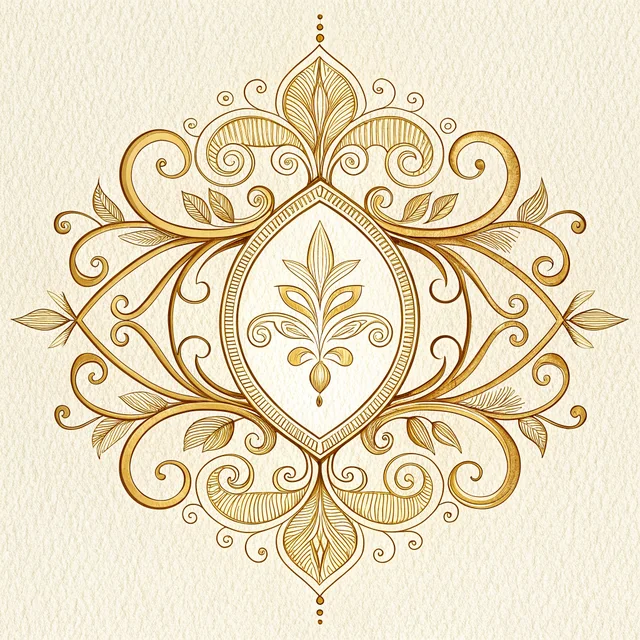
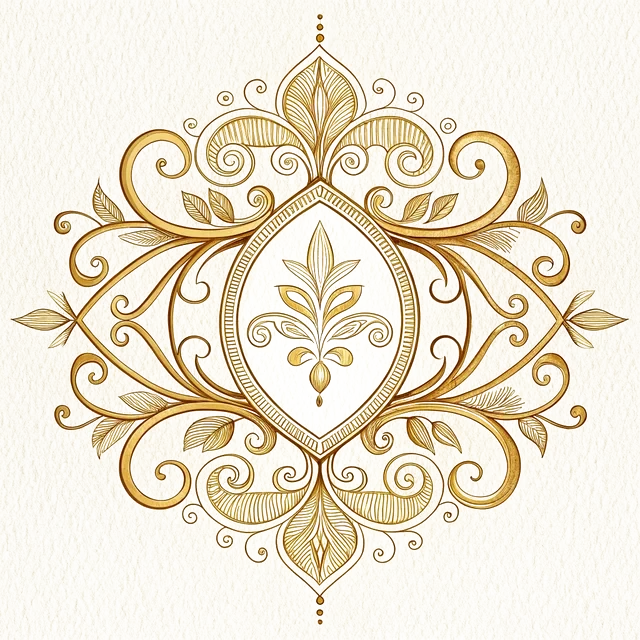
chore(proto): monogram lab — 11 frames + 5 fonts + per-letter positioning
Static review tool (noindex) at /proto/monogram-lab-2026-06-01.html so the
owner can pick monogram frames/fonts and dial in each glyph's placement on a phone.

- bare monogram (no background/fill) + a "None" frame option
- 11 gold-filigree frame designs (4 existing + 6 new Recraft, all keyed transparent)
- 5 premium fonts (Cormorant, Playfair, Cinzel, Great Vibes, Marcellus)
- per-glyph X/Y/Size sliders (left letter, &, right letter) + spacing + ink/backdrop preview + live value readout
- refreshes the shared /proto/assets/mono set with the full 11-frame library

Design tool, V1.x post-pilot. The chosen frames/fonts + per-frame letter offsets
get baked into the onboarding Name screen once selected.

diff --git a/apps/web/public/proto/monogram-lab-2026-06-01.html b/apps/web/public/proto/monogram-lab-2026-06-01.html
@@ -1,0 +1,291 @@
+<!doctype html>
+<html lang="en">
+<head>
+<meta name="robots" content="noindex,nofollow">
+<meta charset="utf-8">
+<meta name="viewport" content="width=device-width, initial-scale=1, maximum-scale=1">
+<title>Setnayan · Monogram Lab</title>
+<link rel="preconnect" href="https://fonts.googleapis.com">
+<link rel="preconnect" href="https://fonts.gstatic.com" crossorigin>
+<link href="https://fonts.googleapis.com/css2?family=Cormorant+Garamond:ital,wght@0,500;0,600;1,500;1,600&family=Playfair+Display:ital,wght@0,600;1,600&family=Cinzel:wght@500;600&family=Great+Vibes&family=Marcellus&family=Manrope:wght@400;500;600;700&family=DM+Mono:wght@400;500&display=swap" rel="stylesheet">
+<style>
+  :root{
+    --paper:#FBFBFA; --ink:#1E2229; --ink-soft:#4F535B; --line:#E7E1D6; --line-2:#D9D2C4;
+    --gold:#C5A059; --gold-deep:#8C6932; --mulberry:#5C2542; --surface:#FFFFFF;
+    --serif:'Cormorant Garamond',serif; --sans:'Manrope',sans-serif; --mono:'DM Mono',monospace;
+  }
+  *{box-sizing:border-box;}
+  body{margin:0;background:#ECE7DD;font-family:var(--sans);color:var(--ink);-webkit-font-smoothing:antialiased;}
+  .wrap{max-width:460px;margin:0 auto;min-height:100vh;background:var(--paper);box-shadow:0 0 40px rgba(0,0,0,.06);}
+  header{display:flex;align-items:center;gap:9px;padding:14px 20px 10px;border-bottom:1px solid var(--line);position:sticky;top:0;background:var(--paper);z-index:5;}
+  header svg{width:24px;height:24px;display:block;}
+  header .wm{font-family:var(--mono);font-size:12px;letter-spacing:.32em;color:var(--ink);font-weight:500;}
+  header .tag{margin-left:auto;font-family:var(--mono);font-size:10px;letter-spacing:.22em;color:var(--gold-deep);text-transform:uppercase;}
+
+  /* ===== live stage ===== */
+  .stage{padding:24px 20px 18px;display:flex;align-items:center;justify-content:center;min-height:300px;transition:background .25s;}
+  .stage[data-bg="paper"]{background:var(--paper);}
+  .stage[data-bg="white"]{background:#fff;}
+  .stage[data-bg="dark"]{background:#1E2229;}
+  .stage[data-bg="gold"]{background:linear-gradient(135deg,#efe6d3,#ddccab);}
+  .mono{position:relative;width:clamp(220px,72vw,300px);aspect-ratio:1;display:flex;align-items:center;justify-content:center;
+    background-repeat:no-repeat;background-position:center;background-size:contain;filter:drop-shadow(0 3px 8px rgba(140,105,50,.18));}
+  .mono[data-frame="none"]{background-image:none;filter:none;}
+  .mono[data-frame="wreath"]{background-image:url(assets/mono/wreath.webp);}
+  .mono[data-frame="crest"]{background-image:url(assets/mono/crest.webp);}
+  .mono[data-frame="square"]{background-image:url(assets/mono/square.webp);}
+  .mono[data-frame="oval"]{background-image:url(assets/mono/oval.webp);}
+  .mono[data-frame="flourish"]{background-image:url(assets/mono/flourish.webp);}
+  .mono[data-frame="art_deco"]{background-image:url(assets/mono/art_deco.webp);}
+  .mono[data-frame="laurel"]{background-image:url(assets/mono/laurel.webp);}
+  .mono[data-frame="baroque"]{background-image:url(assets/mono/baroque.webp);}
+  .mono[data-frame="ribbon"]{background-image:url(assets/mono/ribbon.webp);}
+  .mono[data-frame="botanical"]{background-image:url(assets/mono/botanical.webp);}
+  .mono[data-frame="deco_diamond"]{background-image:url(assets/mono/deco_diamond.webp);}
+
+  .letters{position:relative;display:flex;align-items:center;justify-content:center;line-height:1;white-space:nowrap;}
+  .g{display:inline-block;transition:transform .08s linear;will-change:transform;}
+  /* glyph color */
+  .mono[data-ink="mulberry"] .g{color:var(--mulberry);}
+  .mono[data-ink="gold"] .g{color:var(--gold-deep);}
+  .mono[data-ink="ink"] .g{color:var(--ink);}
+  .mono[data-ink="white"] .g{color:#fff;}
+  /* fonts */
+  .mono[data-font="cormorant"] .g{font-family:var(--serif);font-style:italic;font-weight:600;}
+  .mono[data-font="playfair"] .g{font-family:'Playfair Display',serif;font-style:italic;font-weight:600;}
+  .mono[data-font="cinzel"] .g{font-family:'Cinzel',serif;font-weight:600;text-transform:uppercase;}
+  .mono[data-font="script"] .g{font-family:'Great Vibes',cursive;font-weight:400;}
+  .mono[data-font="marcellus"] .g{font-family:'Marcellus',serif;font-weight:400;}
+
+  /* ===== control panel ===== */
+  .panel{padding:4px 18px 40px;}
+  .sec{margin-top:18px;}
+  .sec-h{font-family:var(--mono);font-size:10.5px;letter-spacing:.2em;text-transform:uppercase;color:var(--gold-deep);margin:0 0 9px;}
+  .field{display:flex;flex-direction:column;gap:5px;margin-bottom:10px;}
+  .field input[type=text]{border:1px solid var(--line-2);background:var(--surface);border-radius:10px;padding:11px 13px;font-family:var(--sans);font-size:15px;color:var(--ink);}
+  .field input[type=text]:focus{outline:none;border-color:var(--gold);}
+  .hint{font-size:11.5px;color:var(--ink-soft);}
+
+  /* frame gallery */
+  .frames{display:grid;grid-template-columns:repeat(4,1fr);gap:8px;}
+  .fr{position:relative;border:2px solid var(--line);border-radius:12px;background:var(--surface);aspect-ratio:1;cursor:pointer;display:flex;align-items:center;justify-content:center;overflow:hidden;-webkit-tap-highlight-color:transparent;}
+  .fr img{width:84%;height:84%;object-fit:contain;}
+  .fr .none-x{font-family:var(--serif);font-style:italic;font-size:22px;color:var(--ink-soft);}
+  .fr .lbl{position:absolute;bottom:0;left:0;right:0;font-family:var(--mono);font-size:8px;letter-spacing:.04em;text-align:center;padding:2px 0;background:rgba(251,251,250,.92);color:var(--ink-soft);text-transform:uppercase;}
+  .fr.sel{border-color:var(--mulberry);box-shadow:0 0 0 2px rgba(92,37,66,.15);}
+
+  /* font + chip rows */
+  .chips{display:flex;flex-wrap:wrap;gap:8px;}
+  .chip{border:1px solid var(--line-2);background:var(--surface);border-radius:999px;padding:9px 15px;font-size:13px;font-weight:600;color:var(--ink-soft);cursor:pointer;-webkit-tap-highlight-color:transparent;}
+  .chip.sel{background:var(--ink);color:var(--paper);border-color:var(--ink);}
+  .chip.fp{font-size:17px;padding:7px 17px;}
+  .chip.fp[data-f="cormorant"]{font-family:var(--serif);font-style:italic;}
+  .chip.fp[data-f="playfair"]{font-family:'Playfair Display',serif;font-style:italic;}
+  .chip.fp[data-f="cinzel"]{font-family:'Cinzel',serif;}
+  .chip.fp[data-f="script"]{font-family:'Great Vibes',cursive;font-size:22px;}
+  .chip.fp[data-f="marcellus"]{font-family:'Marcellus',serif;}
+
+  /* sliders */
+  .glyphrow{margin-bottom:14px;}
+  .glyphrow .gname{font-family:var(--mono);font-size:11px;letter-spacing:.06em;color:var(--ink);font-weight:500;margin-bottom:6px;display:flex;align-items:center;gap:8px;}
+  .glyphrow .gname b{font-family:var(--serif);font-style:italic;font-size:18px;color:var(--mulberry);font-weight:600;min-width:18px;}
+  .sl{display:grid;grid-template-columns:24px 1fr 44px;align-items:center;gap:8px;margin-bottom:5px;}
+  .sl label{font-family:var(--mono);font-size:10px;color:var(--ink-soft);text-transform:uppercase;}
+  .sl input[type=range]{width:100%;accent-color:var(--mulberry);}
+  .sl .val{font-family:var(--mono);font-size:11px;color:var(--ink);text-align:right;}
+
+  .row2{display:flex;gap:8px;flex-wrap:wrap;align-items:center;}
+  .minibtn{border:1px solid var(--line-2);background:var(--surface);border-radius:8px;padding:7px 12px;font-size:12px;font-weight:600;color:var(--ink-soft);cursor:pointer;-webkit-tap-highlight-color:transparent;}
+  .minibtn:active{transform:scale(.96);}
+
+  .readout{margin-top:14px;border:1px dashed var(--line-2);border-radius:10px;background:#FAF7F0;padding:11px 13px;}
+  .readout .rt{font-family:var(--mono);font-size:10px;letter-spacing:.12em;text-transform:uppercase;color:var(--gold-deep);margin-bottom:6px;}
+  .readout pre{margin:0;font-family:var(--mono);font-size:11px;line-height:1.5;color:var(--ink);white-space:pre-wrap;word-break:break-word;}
+</style>
+</head>
+<body>
+<div class="wrap">
+  <header>
+    <svg viewBox="0 0 200 200" aria-hidden="true"><path fill="#cb9e4b" d="M100 18c-45 0-82 37-82 82s37 82 82 82 82-37 82-82-37-82-82-82zm0 18c35 0 64 29 64 64s-29 64-64 64-64-29-64-64 29-64 64-64zm-20 30c-13 0-24 9-24 22 0 11 8 17 20 21l9 3c7 2 10 4 10 8 0 5-5 8-12 8-8 0-13-3-16-9l-15 7c5 12 16 18 31 18 16 0 28-9 28-23 0-12-9-18-21-22l-9-3c-6-2-9-4-9-7 0-4 4-7 11-7 6 0 11 3 13 8l15-7c-5-10-15-16-29-16z"/></svg>
+    <span class="wm">SETNAYAN</span>
+    <span class="tag">Monogram Lab</span>
+  </header>
+
+  <div class="stage" id="stage" data-bg="paper">
+    <div class="mono" id="mono" data-frame="wreath" data-font="cormorant" data-ink="mulberry">
+      <span class="letters" id="letters">
+        <span class="g gl" id="gl">M</span><span class="g ga" id="ga">&amp;</span><span class="g gr" id="gr">J</span>
+      </span>
+    </div>
+  </div>
+
+  <div class="panel">
+    <!-- names -->
+    <div class="sec">
+      <div class="field">
+        <input type="text" id="names" value="Maria & Juan" placeholder="Maria & Juan" autocomplete="off">
+        <span class="hint">The monogram itself — no background, no fill. Pick a frame below, or tap “None” to keep just the letters.</span>
+      </div>
+    </div>
+
+    <!-- frames -->
+    <div class="sec">
+      <div class="sec-h">Frame · choose one</div>
+      <div class="frames" id="frames"></div>
+    </div>
+
+    <!-- fonts -->
+    <div class="sec">
+      <div class="sec-h">Font · 5 to choose from</div>
+      <div class="chips" id="fonts"></div>
+    </div>
+
+    <!-- color + stage -->
+    <div class="sec">
+      <div class="sec-h">Letter color · backdrop (preview only)</div>
+      <div class="row2" style="margin-bottom:8px;">
+        <span class="hint" style="min-width:42px;">Ink</span>
+        <div class="chips" id="inks"></div>
+      </div>
+      <div class="row2">
+        <span class="hint" style="min-width:42px;">Behind</span>
+        <div class="chips" id="bgs"></div>
+      </div>
+    </div>
+
+    <!-- per-glyph positioning -->
+    <div class="sec">
+      <div class="sec-h">Position each letter · X · Y · Size</div>
+      <div id="glyphs"></div>
+      <div class="row2" style="margin-top:4px;">
+        <button class="minibtn" id="resetBtn">Reset position</button>
+        <button class="minibtn" id="spaceMinus">– spacing</button>
+        <button class="minibtn" id="spacePlus">+ spacing</button>
+      </div>
+    </div>
+
+    <div class="readout">
+      <div class="rt">Current values (to bake into the build)</div>
+      <pre id="readout"></pre>
+    </div>
+  </div>
+</div>
+
+<script>
+(function(){
+  var FRAMES=[
+    {k:'none',label:'None'},
+    {k:'wreath',label:'Wreath'},
+    {k:'crest',label:'Crest'},
+    {k:'oval',label:'Oval'},
+    {k:'square',label:'Deco sq.'},
+    {k:'flourish',label:'Flourish'},
+    {k:'art_deco',label:'Art deco'},
+    {k:'laurel',label:'Laurel'},
+    {k:'baroque',label:'Baroque'},
+    {k:'ribbon',label:'Ribbon'},
+    {k:'botanical',label:'Botanical'},
+    {k:'deco_diamond',label:'Diamond'}
+  ];
+  var FONTS=[
+    {k:'cormorant',label:'Cormorant'},
+    {k:'playfair',label:'Playfair'},
+    {k:'cinzel',label:'Cinzel'},
+    {k:'script',label:'Script'},
+    {k:'marcellus',label:'Marcellus'}
+  ];
+  var INKS=[{k:'mulberry',label:'Mulberry'},{k:'gold',label:'Gold'},{k:'ink',label:'Ink'},{k:'white',label:'White'}];
+  var BGS=[{k:'paper',label:'Paper'},{k:'white',label:'White'},{k:'gold',label:'Cream'},{k:'dark',label:'Dark'}];
+
+  var mono=document.getElementById('mono'), stage=document.getElementById('stage');
+  var gl=document.getElementById('gl'), ga=document.getElementById('ga'), gr=document.getElementById('gr');
+  var letters=document.getElementById('letters'), readout=document.getElementById('readout');
+  var baseSize=54, spacing=2;
+  // per-glyph: {x,y,s}
+  var pos={ l:{x:0,y:0,s:100}, a:{x:0,y:0,s:62}, r:{x:0,y:0,s:100} };
+
+  function deriveGlyphs(){
+    var v=(document.getElementById('names').value||'').trim();
+    var parts=v.split(/\s*(?:&|\+|\band\b)\s*/i).filter(Boolean);
+    var L,R,A='&';
+    if(parts.length>=2){ L=parts[0][0]; R=parts[1][0]; }
+    else if(parts.length===1){ L=parts[0][0]||'M'; R=(parts[0][1]||''); A=''; }
+    else { L='M'; R='J'; }
+    gl.textContent=(L||'').toUpperCase();
+    ga.textContent=A; ga.style.display=A?'inline-block':'none';
+    gr.textContent=(R||'').toUpperCase();
+  }
+  function applyPos(){
+    letters.style.fontSize=baseSize+'px';
+    letters.style.gap=spacing+'px';
+    gl.style.transform='translate('+pos.l.x+'px,'+pos.l.y+'px) scale('+(pos.l.s/100)+')';
+    ga.style.transform='translate('+pos.a.x+'px,'+pos.a.y+'px) scale('+(pos.a.s/100)+')';
+    gr.style.transform='translate('+pos.r.x+'px,'+pos.r.y+'px) scale('+(pos.r.s/100)+')';
+    writeReadout();
+  }
+  function writeReadout(){
+    readout.textContent =
+      'frame: '+mono.dataset.frame+'   font: '+mono.dataset.font+'   ink: '+mono.dataset.ink+'\n'+
+      'base '+baseSize+'px · spacing '+spacing+'px\n'+
+      'left   x:'+pos.l.x+' y:'+pos.l.y+' size:'+pos.l.s+'%\n'+
+      'amp &  x:'+pos.a.x+' y:'+pos.a.y+' size:'+pos.a.s+'%\n'+
+      'right  x:'+pos.r.x+' y:'+pos.r.y+' size:'+pos.r.s+'%';
+  }
+
+  // build frame gallery
+  var fw=document.getElementById('frames');
+  FRAMES.forEach(function(f){
+    var el=document.createElement('div'); el.className='fr'+(f.k==='wreath'?' sel':''); el.dataset.k=f.k;
+    if(f.k==='none'){ el.innerHTML='<span class="none-x">M&amp;J</span><span class="lbl">'+f.label+'</span>'; }
+    else { el.innerHTML='<img src="assets/mono/'+f.k+'.webp" alt="" loading="lazy"><span class="lbl">'+f.label+'</span>'; }
+    el.addEventListener('click',function(){ mono.dataset.frame=f.k; [].forEach.call(fw.children,function(c){c.classList.toggle('sel',c.dataset.k===f.k);}); writeReadout(); });
+    fw.appendChild(el);
+  });
+  // fonts
+  var fo=document.getElementById('fonts');
+  FONTS.forEach(function(f){
+    var el=document.createElement('div'); el.className='chip fp'+(f.k==='cormorant'?' sel':''); el.dataset.f=f.k; el.textContent=f.label;
+    el.addEventListener('click',function(){ mono.dataset.font=f.k; [].forEach.call(fo.children,function(c){c.classList.toggle('sel',c.dataset.f===f.k);}); writeReadout(); });
+    fo.appendChild(el);
+  });
+  // inks
+  var iw=document.getElementById('inks');
+  INKS.forEach(function(o){ var el=document.createElement('div'); el.className='chip'+(o.k==='mulberry'?' sel':''); el.dataset.k=o.k; el.textContent=o.label;
+    el.addEventListener('click',function(){ mono.dataset.ink=o.k; [].forEach.call(iw.children,function(c){c.classList.toggle('sel',c.dataset.k===o.k);}); writeReadout(); }); iw.appendChild(el); });
+  // bgs
+  var bw=document.getElementById('bgs');
+  BGS.forEach(function(o){ var el=document.createElement('div'); el.className='chip'+(o.k==='paper'?' sel':''); el.dataset.k=o.k; el.textContent=o.label;
+    el.addEventListener('click',function(){ stage.dataset.bg=o.k; [].forEach.call(bw.children,function(c){c.classList.toggle('sel',c.dataset.k===o.k);}); }); bw.appendChild(el); });
+
+  // per-glyph sliders
+  var glyphs=document.getElementById('glyphs');
+  var defs=[{k:'l',name:'Left',ch:'M'},{k:'a',name:'And &',ch:'&'},{k:'r',name:'Right',ch:'J'}];
+  var axes=[{a:'x',lab:'X',min:-80,max:80},{a:'y',lab:'Y',min:-80,max:80},{a:'s',lab:'Sz',min:20,max:180}];
+  defs.forEach(function(d){
+    var row=document.createElement('div'); row.className='glyphrow';
+    var h='<div class="gname"><b>'+d.ch+'</b> '+d.name+'</div>';
+    axes.forEach(function(ax){
+      h+='<div class="sl"><label>'+ax.lab+'</label><input type="range" data-g="'+d.k+'" data-a="'+ax.a+'" min="'+ax.min+'" max="'+ax.max+'" value="'+pos[d.k][ax.a]+'"><span class="val" id="v-'+d.k+'-'+ax.a+'">'+pos[d.k][ax.a]+'</span></div>';
+    });
+    row.innerHTML=h; glyphs.appendChild(row);
+  });
+  glyphs.addEventListener('input',function(e){
+    var t=e.target; if(t.type!=='range') return;
+    var g=t.dataset.g, a=t.dataset.a; pos[g][a]=parseInt(t.value,10);
+    document.getElementById('v-'+g+'-'+a).textContent=t.value; applyPos();
+  });
+
+  document.getElementById('names').addEventListener('input',function(){ deriveGlyphs(); });
+  document.getElementById('resetBtn').addEventListener('click',function(){
+    pos={ l:{x:0,y:0,s:100}, a:{x:0,y:0,s:62}, r:{x:0,y:0,s:100} };
+    [].forEach.call(glyphs.querySelectorAll('input[type=range]'),function(inp){ inp.value=pos[inp.dataset.g][inp.dataset.a]; document.getElementById('v-'+inp.dataset.g+'-'+inp.dataset.a).textContent=inp.value; });
+    applyPos();
+  });
+  document.getElementById('spaceMinus').addEventListener('click',function(){ spacing=Math.max(-30,spacing-4); applyPos(); });
+  document.getElementById('spacePlus').addEventListener('click',function(){ spacing=Math.min(60,spacing+4); applyPos(); });
+
+  deriveGlyphs(); applyPos();
+})();
+</script>
+</body>
+</html>